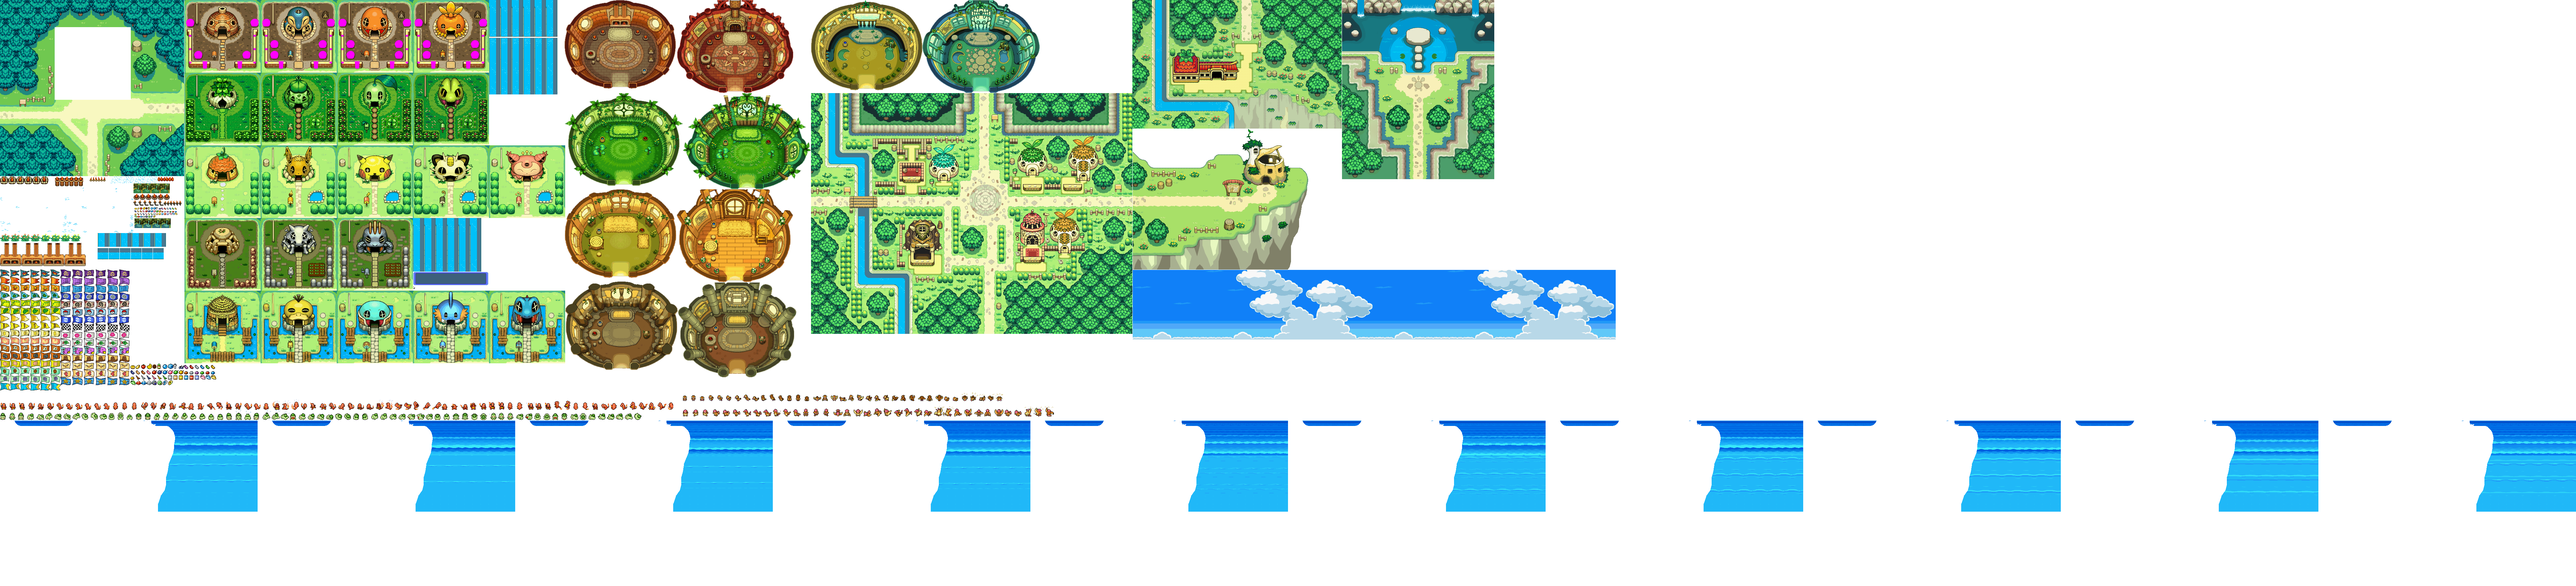
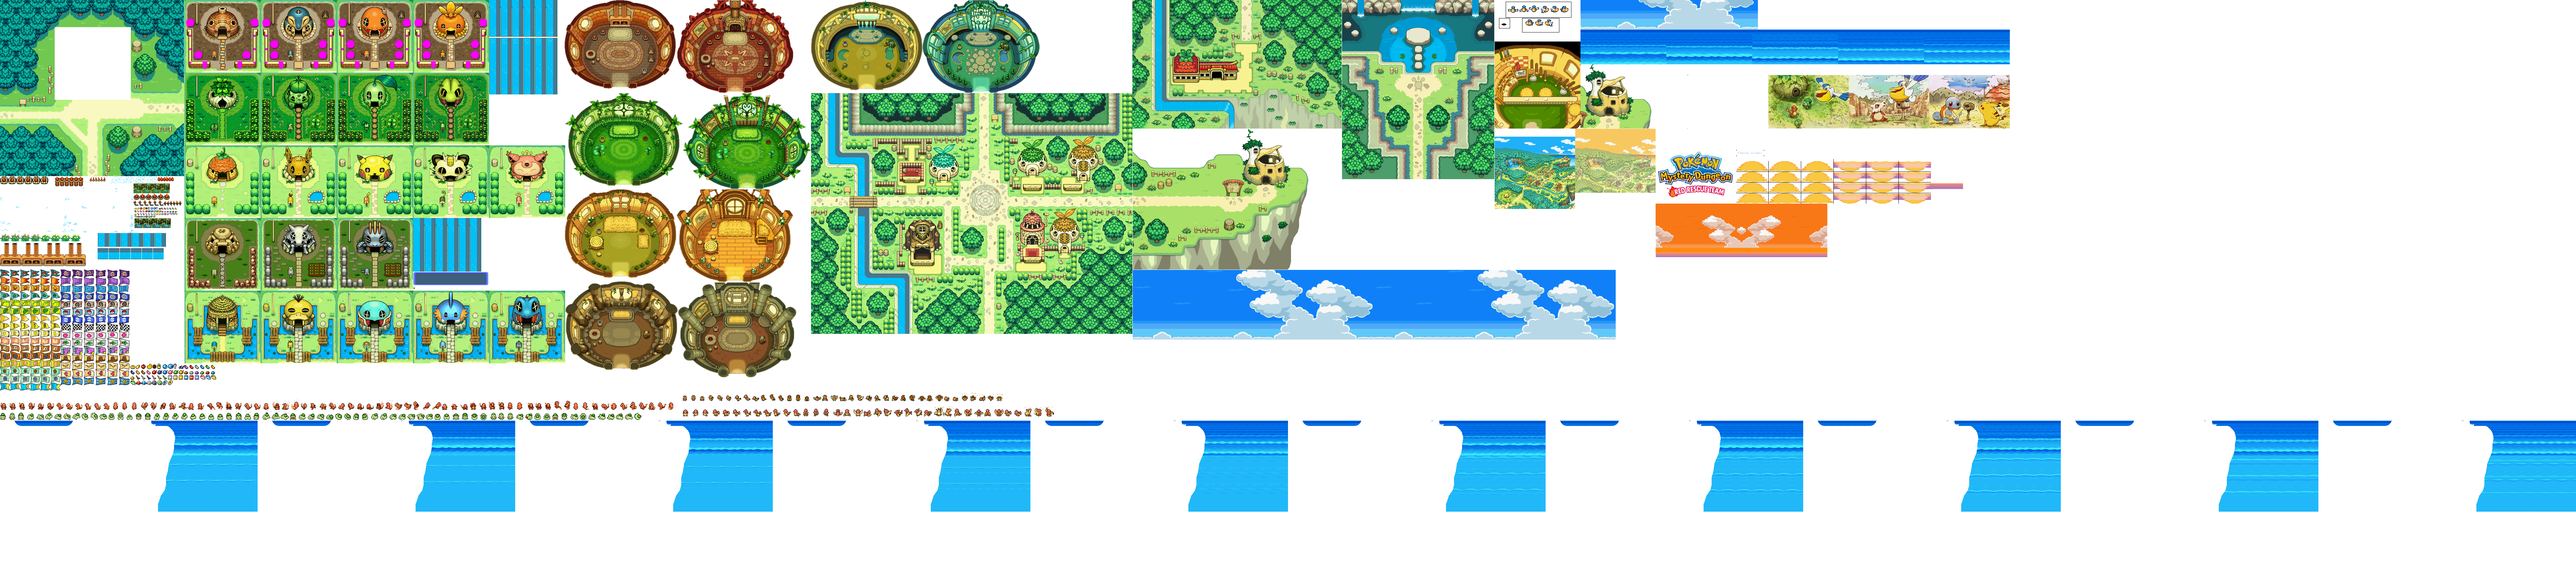
[+] Includes of Intro, Dream & Ditto, Manage Intro Events

Changed region(s): [[0.5625, 0.0, 0.7812, 0.4629]]

diff --git a/include/intro.h b/include/intro.h
@@ -1,0 +1,51 @@
+/*
+** EPITECH PROJECT, 2022
+** B-MUL-200-NCE-2-1-myrpg-antoine.frankel
+** File description:
+** intro
+*/
+
+#include "rpg.h"
+#include "cinematics_elements.h"
+
+#ifndef INTRO_H_
+#define INTRO_H_
+
+enum pkmintro_t {
+    RDMPKM = 0,
+    BEKIPAN1 = 1,
+    BEKIPAN2 = 2,
+    BEKIPAN1OMBRE = 3,
+    BEKIPAN2OMBRE = 4,
+};
+
+enum introscene_t {
+    PLAN0,
+    PLAN1,
+    PLAN2,
+    PLAN3,
+    PLAN4,
+    PLAN5,
+    PLAN6,
+    DELETEINTRO,
+};
+
+typedef struct intro_assets_t {
+    int valid;
+    enum introscene_t plan;
+    cine_ele pkmintro[4];
+    cine_ele b_intro[5];
+    sfEvent event;
+    sfColor color;
+    sfMusic *i_music1;
+    sfMusic *i_music2;
+} intro_a;
+
+intro_a *create_intro(wininf *inf);
+void manage_intro(wininf *inf);
+void move_rectintroleft(sfIntRect *rect, int modify, int max_value);
+void move_rectintroleft2(sfIntRect *rect, int modify, int max_value);
+void move_rectintroleft3(sfIntRect *rect, int modify, int max_value);
+void move_rectintrotop(sfIntRect *rect, int modify, int max_value);
+
+#endif

diff --git a/include/rpg.h b/include/rpg.h
@@ -28,7 +28,10 @@ typedef enum scenes_e {
     DOJO,
     BEKIPAN,
     DITTOLAND,
-    MAIN_MENU
+    MAIN_MENU,
+    INTRO,
+    DITTO,
+    DREAM
 } scenes;
 
 typedef enum orders_e {
@@ -83,6 +86,10 @@ typedef struct collision_t {
 typedef struct time_inft {
     sfClock *dt_cal;
     float dt;
+    float intro_anim;
+    float intro_anim2;
+    float ditto_anim;
+    float ditto_anim2;
     float transi;
     float time;
     float anim;
@@ -165,6 +172,9 @@ typedef struct wininf_t {
     struct menus *load_menu;
     struct menus *current_menu;
     struct settings_t *settings;
+    struct intro_assets_t *intro;
+    struct ditto_assets_t *ditto;
+    struct dream_assets_t *dream;
     sfRectangleShape *transition_rect;
     void (*triggers[9])(struct wininf_t *win, struct player_t p);
 } wininf;

diff --git a/src/window/time_handling.c b/src/window/time_handling.c
@@ -14,6 +14,10 @@ void init_times(wininf *infos)
     infos->time.dt = 0.0f;
     infos->time.transi = 0.0f;
     infos->time.time = 0.0f;
+    infos->time.intro_anim = 0.0f;
+    infos->time.intro_anim2 = 0.0f;
+    infos->time.ditto_anim = 0.0f;
+    infos->time.ditto_anim2 = 0.0f;
 }
 
 void update_time(wininf *infos)
@@ -22,6 +26,10 @@ void update_time(wininf *infos)
     if (infos->time.anim > RATE) {
         infos->time.anim = 0.0f;
     }
+    infos->time.intro_anim += dt;
+    infos->time.intro_anim2 += dt;
+    infos->time.ditto_anim += dt;
+    infos->time.ditto_anim2 += dt;
     infos->time.time += dt;
     infos->time.anim += dt;
     infos->time.dt = dt;

diff --git a/src/window/init_window.c b/src/window/init_window.c
@@ -17,7 +17,7 @@ wininf create_window_infos(int ac, char **av)
     get_settings_flags(ac, av, &inf);
     inf.mode = (sfVideoMode){1920, 1080, 32};
     inf.win = sfRenderWindow_create(inf.mode, WINDOW_NAME, sfClose, NULL);
-    inf.c_scene = MAIN_MENU;
+    inf.c_scene = INTRO;
     inf.interacting = 0;
     init_times(&inf);
     create_atlases(&inf);
@@ -47,5 +47,8 @@ wininf create_window_infos(int ac, char **av)
     inf.c_menu = NONE;
     inf.current_menu = inf.main_menu;
     inf.net->timeout.microseconds = 5000;
+    inf.intro = NULL;
+    inf.ditto = NULL;
+    inf.dream = NULL;
     return inf;
 }

diff --git a/include/ditto.h b/include/ditto.h
@@ -1,0 +1,30 @@
+/*
+** EPITECH PROJECT, 2022
+** B-MUL-200-NCE-2-1-myrpg-antoine.frankel
+** File description:
+** ditto
+*/
+
+#include "rpg.h"
+#include "cinematics_elements.h"
+
+#ifndef DITTO_H_
+#define DITTO_H_
+
+enum dittoscene_t {
+    DITTOINIT,
+    DELETEDITTO
+};
+
+typedef struct ditto_assets_t {
+    enum dittoscene_t plan;
+    cine_ele ditto[4];
+    sfColor color;
+    sfMusic *conga;
+} ditto_a;
+
+sfColor my_hsvtorgb(float H, float S, float V);
+ditto_a *create_ditto(wininf *inf);
+cine_ele c_eles(char *tpath, sfVector2f pos, sfIntRect rect);
+
+#endif /* !DITTO_H_ */

diff --git a/src/scene_handling/scene_handler.c b/src/scene_handling/scene_handler.c
@@ -11,7 +11,13 @@
 void handle_scene(wininf *infos, player *p)
 {
     sfRenderWindow_clear(infos->win, sfBlack);
-    if (infos->c_scene == MAIN_MENU) {
+    if (infos->c_scene == INTRO) {
+        draw_intro(infos);
+    // if (infos->c_scene == DITTO) {
+    //     draw_ditto(infos);
+    // if (infos->c_scene == DREAM) {
+    //     draw_dream(infos);
+    } else if (infos->c_scene == MAIN_MENU) {
         draw_menu(infos, infos->main_menu);
         if (infos->c_menu == LOAD_SAVE) draw_menu(infos, infos->load_menu);
     } else {

diff --git a/include/cinematics_elements.h b/include/cinematics_elements.h
@@ -1,0 +1,23 @@
+/*
+** EPITECH PROJECT, 2022
+** B-MUL-200-NCE-2-1-myrpg-antoine.frankel
+** File description:
+** elements
+*/
+
+#include "rpg.h"
+
+#ifndef ELEMENTS_H_
+#define ELEMENTS_H_
+
+typedef struct cine_ele_t {
+    sfSprite *sprite;
+    sfVector2f pos;
+    sfIntRect rect;
+    sfVector2f resize;
+} cine_ele;
+
+void display_ele(sfRenderWindow *window, cine_ele ele);
+cine_ele c_ele(sfImage *img, sfVector2f pos, sfIntRect rect, sfVector2f size);
+
+#endif /* !ELEMENTS_H_ */

diff --git a/include/dream.h b/include/dream.h
@@ -1,0 +1,28 @@
+/*
+** EPITECH PROJECT, 2022
+** B-MUL-200-NCE-2-1-myrpg-antoine.frankel
+** File description:
+** dream
+*/
+
+#include "rpg.h"
+#include "cinematics_elements.h"
+
+#ifndef DREAM_H_
+#define DREAM_H_
+
+enum dreamscene_t {
+    DREAMINIT,
+    DELETEDREAM
+};
+
+typedef struct dream_assets_t {
+    enum dreamscene_t plan;
+    int color;
+    cine_ele b_dream[3];
+    sfMusic *music;
+} dream_a;
+
+dream_a *create_dream(wininf *inf);
+
+#endif /* !DREAM_H_ */

diff --git a/src/events/events.c b/src/events/events.c
@@ -26,5 +26,6 @@ void update_events(wininf *inf)
         if (inf->event.type == sfEvtKeyReleased && inf->event.key.code ==
         sfKeyRControl)
             inf->c_scene = HOME;
+        manage_intro(inf);
     }
 }
